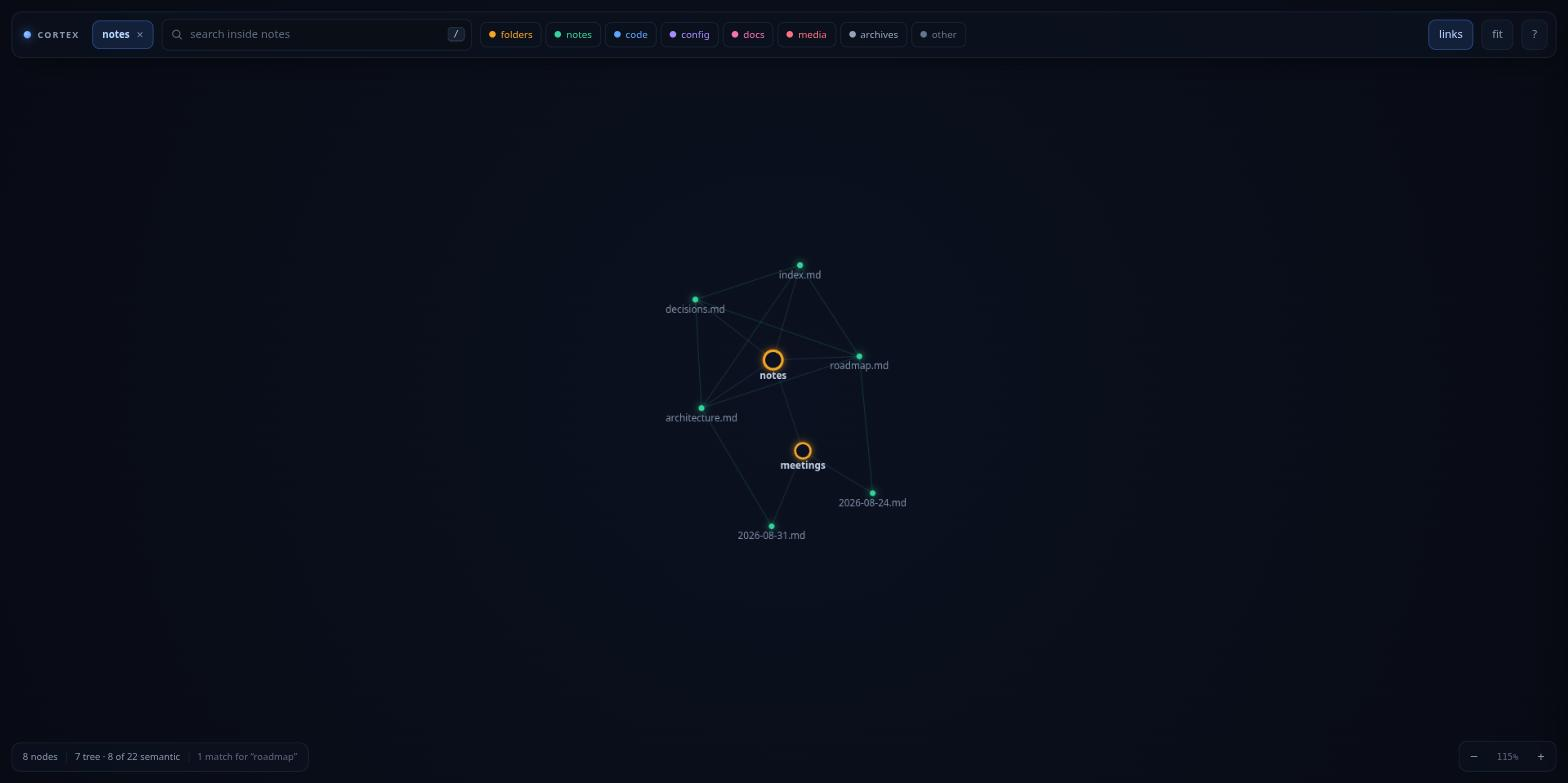
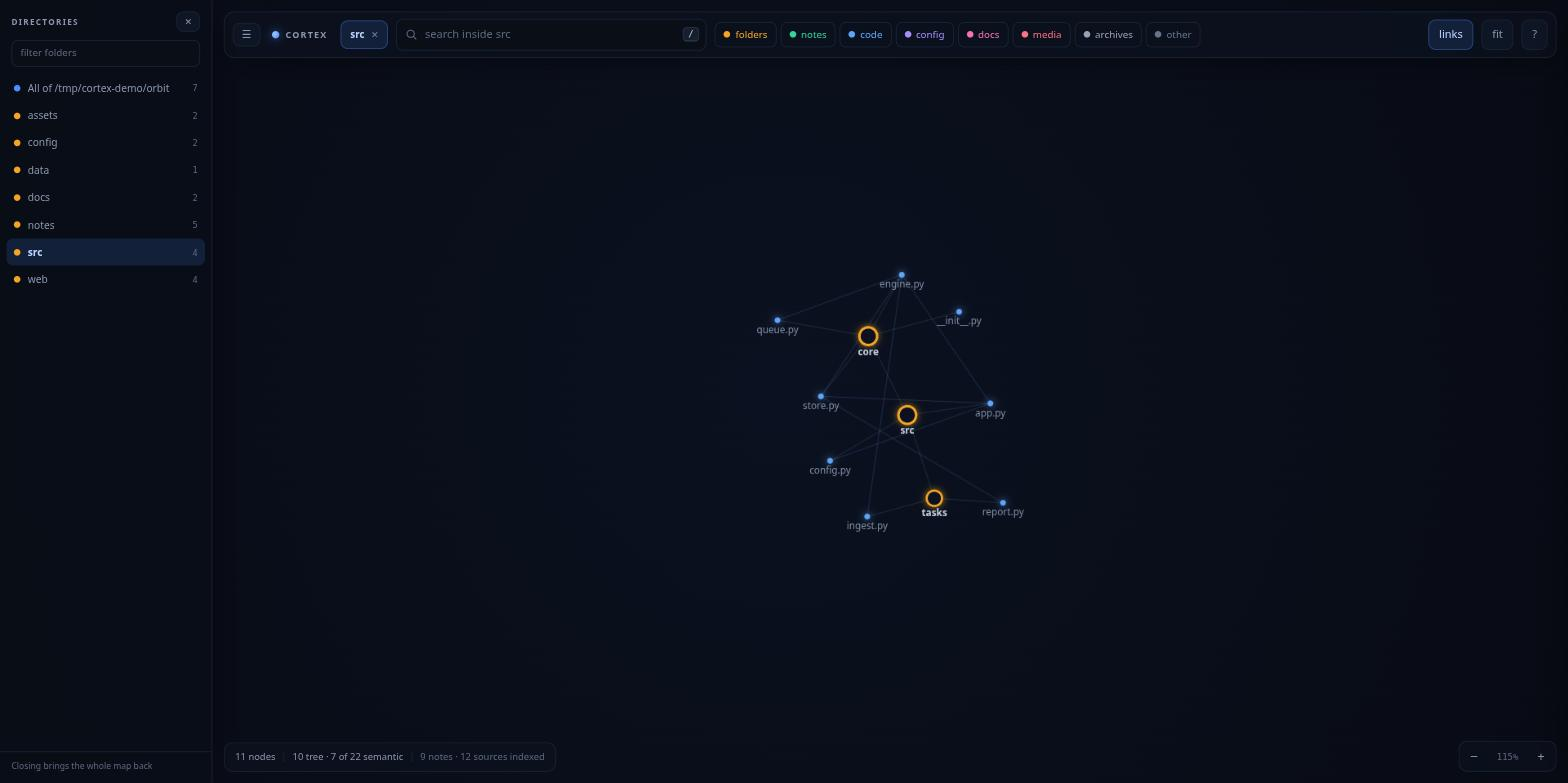
Add a directory sidebar for switching between folders
Narrowing the graph existed but you had to find it: select the right node,
then know about the "only this" button. There was no way to see what you could
switch to.

The sidebar lists every folder in the root. Click one and the graph is rebuilt
around it; click another to jump straight there without going back out first.
A filter box handles roots with many folders, and the current one is marked.

Closing the sidebar restores the whole map. That is deliberate: the sidebar is
the thing you opened, so closing it is the obvious way out, and it means a
narrowed graph can never become a state you are stuck in. Reaching the same
place by pressing `o` on a node still uses the pill or `b` to get back.

The top bar and the stats line step aside for it, and fit() and centerOn() take
the sidebar width into account so the graph is framed in the space actually
left to it rather than centred underneath the sidebar.

diff --git a/cortex/ui/app.js b/cortex/ui/app.js
@@ -35,6 +35,10 @@ let needsFit = false;
    viewRoot is what the graph is currently showing, which the user can narrow to
    any folder inside it without restarting. */
 let viewRoot = ROOT;
+let sidebarOpen = false;
+let rootDirs = null;              // cached folder list for the sidebar
+const SIDEBAR_W = 260;
+const sidebarInset = () => (sidebarOpen ? SIDEBAR_W : 0);
 
 /* The layout cools down and then freezes. Without this the graph jitters
    forever, which reads as flicker: labels keep crossing the collision
@@ -225,6 +229,7 @@ async function setScope(rawRoot) {
 
   applySemantic();
   updateScopeUI();
+  if (sidebarOpen && rootDirs) renderSidebar();
   needsFit = true;
   reheat(1);
 }
@@ -256,6 +261,82 @@ function updateScopeUI() {
   } else {
     qbox.placeholder = `search everything under ${CFG.title || "~"}`;
   }
+}
+
+/* ---------------------------------------------------------------- sidebar
+   A list of the folders directly under the launch root, used as a project
+   switcher: pick one and the graph is rebuilt around it. Closing the sidebar
+   puts the whole map back, so it is never a mode you can get stuck in. */
+
+async function toggleSidebar(on) {
+  const next = on === undefined ? !sidebarOpen : !!on;
+  if (next === sidebarOpen) return;
+  sidebarOpen = next;
+  $("sidebar").hidden = !sidebarOpen;
+  document.body.classList.toggle("sidebar-open", sidebarOpen);
+
+  if (sidebarOpen) {
+    await fillSidebar();
+    $("sb-filter").focus();
+  } else {
+    await showFullMap();          // closing means "show me everything again"
+  }
+  needsFit = true;
+  reheat(0.6);
+}
+
+async function fillSidebar() {
+  const list = $("sb-list");
+  if (!rootDirs) {
+    list.innerHTML = '<div class="sb-empty">reading…</div>';
+    try {
+      const kids = await api("/api/children", { path: ROOT });
+      rootDirs = kids.filter((k) => k.dir);
+    } catch (err) {
+      list.innerHTML = '<div class="sb-empty">could not read the root</div>';
+      return;
+    }
+  }
+  renderSidebar();
+}
+
+function renderSidebar() {
+  const list = $("sb-list");
+  const term = $("sb-filter").value.trim().toLowerCase();
+  const shown = rootDirs.filter((d) => !term || d.name.toLowerCase().includes(term));
+  list.textContent = "";
+
+  const row = (label, count, active, onClick, extraClass) => {
+    const b = document.createElement("button");
+    b.className = "sb-row" + (active ? " on" : "") + (extraClass ? " " + extraClass : "");
+    b.innerHTML = '<span class="bullet"></span>'
+      + `<span class="nm"></span><span class="ct">${count}</span>`;
+    b.querySelector(".nm").textContent = label;   // never trust a filename as html
+    b.addEventListener("click", onClick);
+    list.appendChild(b);
+    return b;
+  };
+
+  if (!term) {
+    row(`All of ${CFG.title || "~"}`, rootDirs.length, viewRoot === ROOT,
+        () => showFullMap(), "all");
+  }
+  if (!shown.length) {
+    const d = document.createElement("div");
+    d.className = "sb-empty";
+    d.textContent = term ? `nothing matching “${term}”` : "no folders here";
+    list.appendChild(d);
+    return;
+  }
+  for (const dir of shown) {
+    row(dir.name, dir.kids ?? "", viewRoot === dir.id, () => pickFromSidebar(dir));
+  }
+}
+
+async function pickFromSidebar(dir) {
+  if (viewRoot === dir.id) return;
+  await setScope(dir);
+  renderSidebar();
 }
 
 /* Grow the graph along a real path until that node exists, then select it. */
@@ -507,20 +588,22 @@ function fit(pad = 90) {
     minY = Math.min(minY, n.y - n.r); maxY = Math.max(maxY, n.y + n.r);
   }
   const panelW = (panel.classList.contains("open") && !maximized) ? 520 : 0;
-  const availW = Math.max(200, W - panelW - pad * 2);
+  const left = sidebarInset();
+  const availW = Math.max(200, W - panelW - left - pad * 2);
   const availH = Math.max(200, H - pad * 2 - 70);
   const s = Math.max(0.06, Math.min(1.15,
     Math.min(availW / Math.max(1, maxX - minX), availH / Math.max(1, maxY - minY))));
   cam.s = s;
-  cam.x = pad + availW / 2 - ((minX + maxX) / 2) * s;
+  cam.x = left + pad + availW / 2 - ((minX + maxX) / 2) * s;
   cam.y = pad + 40 + availH / 2 - ((minY + maxY) / 2) * s;
   showZoom();
 }
 
 function centerOn(n) {
   const panelW = (panel.classList.contains("open") && !maximized) ? 520 : 0;
+  const left = sidebarInset();
   cam.s = Math.max(cam.s, 1.1);
-  cam.x = (W - panelW) / 2 - n.x * cam.s;
+  cam.x = left + (W - left - panelW) / 2 - n.x * cam.s;
   cam.y = H / 2 - n.y * cam.s;
   showZoom();
 }
@@ -988,7 +1071,7 @@ function updateStats() {
 
 // ----------------------------------------------------------------- keyboard
 window.addEventListener("keydown", (e) => {
-  if (e.target === qbox) return;
+  if (e.target === qbox || e.target === $("sb-filter")) return;
   if (e.metaKey || e.ctrlKey || e.altKey) return;
   switch (e.key) {
     case "/":
@@ -1012,6 +1095,8 @@ window.addEventListener("keydown", (e) => {
       if (sel && sel.dir) isolate(sel.id); break;
     case "b":
       showFullMap(); break;
+    case "s":
+      toggleSidebar(); break;
     case "l":
       $("btn-links").click(); break;
     case "?":
@@ -1030,6 +1115,15 @@ $("p-path").addEventListener("click", () => {
                                              () => toast("copy blocked", true));
 });
 $("scope").addEventListener("click", () => showFullMap());
+$("sb-toggle").addEventListener("click", () => toggleSidebar());
+$("sb-close").addEventListener("click", () => toggleSidebar(false));
+$("sb-filter").addEventListener("input", () => renderSidebar());
+$("sb-filter").addEventListener("keydown", (e) => {
+  if (e.key === "Escape") {
+    if ($("sb-filter").value) { $("sb-filter").value = ""; renderSidebar(); }
+    else toggleSidebar(false);
+  }
+});
 $("btn-fit").addEventListener("click", () => fit());
 $("btn-help").addEventListener("click", () => $("help").classList.toggle("open"));
 $("help-close").addEventListener("click", () => $("help").classList.remove("open"));

diff --git a/cortex/ui/style.css b/cortex/ui/style.css
@@ -93,6 +93,50 @@ button.primary{background:linear-gradient(180deg,#3d82ff,#2f6ee0);border:1px sol
   box-shadow:0 6px 18px -8px #4c8dffcc;transition:.14s}
 button.primary:hover{filter:brightness(1.12)}
 
+/* --------------------------------------------------------------- sidebar */
+#sidebar{position:fixed;top:0;left:0;bottom:0;width:260px;z-index:15;
+  display:flex;flex-direction:column;background:rgba(9,13,22,.94);
+  border-right:1px solid var(--line);backdrop-filter:blur(18px) saturate(140%);
+  box-shadow:18px 0 50px -34px #000}
+#sidebar[hidden]{display:none}
+
+.sb-head{display:flex;align-items:center;justify-content:space-between;
+  padding:14px 14px 10px;flex:none}
+.sb-title{font-size:10px;letter-spacing:.16em;text-transform:uppercase;
+  color:var(--fg-dim);font-weight:700}
+
+#sb-filter{margin:0 14px 10px;flex:none;background:#0a0e17;color:var(--fg);
+  border:1px solid var(--line);border-radius:8px;padding:6px 10px;outline:none;
+  font-size:12px}
+#sb-filter:focus{border-color:var(--accent);box-shadow:0 0 0 3px #4c8dff22}
+#sb-filter::placeholder{color:var(--fg-faint)}
+
+#sb-list{flex:1;overflow-y:auto;padding:0 8px 8px}
+#sb-list::-webkit-scrollbar{width:9px}
+#sb-list::-webkit-scrollbar-thumb{background:#1c2740;border-radius:6px;
+  border:3px solid transparent;background-clip:content-box}
+
+.sb-row{display:flex;align-items:center;gap:9px;width:100%;text-align:left;
+  background:none;border:none;border-radius:8px;padding:7px 9px;cursor:pointer;
+  color:var(--fg-dim);font-size:12.5px;transition:.12s}
+.sb-row:hover{background:#141d2f;color:var(--fg)}
+.sb-row.on{background:#12203a;color:#bcd6ff;font-weight:600}
+.sb-row .bullet{width:8px;height:8px;border-radius:50%;background:var(--dir);
+  flex:none}
+.sb-row.all .bullet{background:var(--accent)}
+.sb-row .nm{flex:1;overflow:hidden;text-overflow:ellipsis;white-space:nowrap}
+.sb-row .ct{font:10.5px var(--mono);color:var(--fg-faint);flex:none}
+.sb-empty{color:var(--fg-faint);font-size:12px;padding:12px 9px}
+
+.sb-foot{flex:none;padding:10px 14px 12px;border-top:1px solid var(--line);
+  color:var(--fg-faint);font-size:10.5px;line-height:1.5}
+
+button.ghost.icon{padding:7px 10px;font-size:13px;line-height:1;flex:none}
+
+/* the top bar steps aside for the sidebar */
+body.sidebar-open #bar{left:274px}
+body.sidebar-open #stats{left:274px}
+
 /* --------------------------------------------------------------- corners */
 #stats{position:fixed;left:14px;bottom:14px;z-index:10;display:flex;align-items:center;
   gap:10px;padding:8px 13px;font-size:11.5px;color:var(--fg-dim)}

diff --git a/cortex/ui/index.html b/cortex/ui/index.html
@@ -10,8 +10,22 @@
 
 <canvas id="stage"></canvas>
 
+<!-- left sidebar: every folder in the root, as a project switcher -->
+<aside id="sidebar" hidden>
+  <div class="sb-head">
+    <span class="sb-title">Directories</span>
+    <button id="sb-close" class="ghost sm"
+            title="Close — back to the whole map (s)">&#10005;</button>
+  </div>
+  <input id="sb-filter" type="text" spellcheck="false" autocomplete="off"
+         placeholder="filter folders">
+  <div id="sb-list"></div>
+  <div class="sb-foot">Closing brings the whole map back</div>
+</aside>
+
 <!-- top command bar -->
 <header id="bar">
+  <button id="sb-toggle" class="ghost icon" title="Directories (s)">&#9776;</button>
   <div class="brand"><span class="dot"></span>cortex</div>
   <button id="scope" class="scope" hidden>
     <span id="scope-name"></span><span class="x">&#10005;</span>
@@ -83,6 +97,7 @@
       <dt><kbd>f</kbd></dt><dd>focus mode — hide everything not connected</dd>
       <dt><kbd>o</kbd></dt><dd>only this folder — drop everything else from the graph</dd>
       <dt><kbd>b</kbd></dt><dd>back to the whole map</dd>
+      <dt><kbd>s</kbd></dt><dd>open / close the directory sidebar</dd>
       <dt><kbd>m</kbd></dt><dd>full screen the reader — for PDFs, images, long notes</dd>
       <dt><kbd>esc</kbd></dt><dd>leave full screen, or close the reader</dd>
     </dl>

diff --git a/README.md b/README.md
@@ -224,21 +224,32 @@ cortex ~/big-repo --max-nodes 300  # stop after 300 nodes
 Default is 3 levels for a folder you name, and **0 for your home directory** —
 a home directory is far too big to open eagerly.
 
-### Narrowing down without restarting
+### The directory sidebar
 
-You do not have to decide up front. Select any folder in the graph and press
-<kbd>o</kbd>, or click **only this**, and the graph is rebuilt around just that
-folder. Everything else disappears — it is not dimmed or filtered, it is gone:
+You do not have to decide up front. Click **☰** in the top left, or press
+<kbd>s</kbd>, and a sidebar lists every folder in the root. Click one and the
+graph is rebuilt around just that folder — everything else is not dimmed or
+filtered, it is gone:
 
-![Narrowed to one folder](docs/scope.jpg)
+![The directory sidebar](docs/scope.jpg)
 
-Search narrows with it, and says so when a match exists but is out of view
-(`0 matches for "roadmap" (1 outside this folder)`), so you are never quietly
-missing results.
+Click another folder to jump straight to it. **Close the sidebar and the whole
+map comes back**, exactly as it looked when you launched — closing is always the
+way out, so it is not a mode you can get stuck in.
 
-A pill appears in the top bar with the folder's name. Click it, or press
-<kbd>b</kbd>, to go back to the whole map. Following a `[[wikilink]]` that
-points outside the folder widens back out on its own.
+There is a filter box for when the root has a lot of folders, and the row you
+are currently in is highlighted.
+
+### Narrowing from the graph itself
+
+Same idea without the sidebar: select any folder node and press <kbd>o</kbd>, or
+click **only this**. A pill appears in the top bar with the folder's name — click
+it, or press <kbd>b</kbd>, for the whole map again.
+
+Search narrows along with the view, and says so when a match exists but is out of
+sight (`0 matches for "roadmap" (1 outside this folder)`), so a narrowed graph
+never quietly hides results. Following a `[[wikilink]]` that points outside the
+folder widens back out on its own.
 
 This is a view, not a permission: the folder you launched on is still the
 security boundary, and narrowing never lets you reach outside it.
@@ -318,6 +329,7 @@ cortex [folder] [options]
 | <kbd>m</kbd> | full screen the reader |
 | <kbd>e</kbd> | expand / collapse the selected folder |
 | <kbd>f</kbd> | focus mode — hide everything not linked |
+| <kbd>s</kbd> | open / close the directory sidebar |
 | <kbd>o</kbd> | only this folder — rebuild the graph around the selection |
 | <kbd>b</kbd> | back to the whole map |
 | <kbd>l</kbd> | show / hide semantic links |
@@ -449,8 +461,9 @@ end off-screen. Open a single project (`cortex ~/myproject`) and they appear —
 or select that project's folder in the graph and press <kbd>o</kbd>.
 
 **I opened my home directory but only want one project now.**
-Select the folder and press <kbd>o</kbd>. No need to quit and relaunch. Press
-<kbd>b</kbd> to come back.
+Press <kbd>s</kbd> for the sidebar and click the project, or select its folder in
+the graph and press <kbd>o</kbd>. No need to quit and relaunch. Closing the
+sidebar — or <kbd>b</kbd> — brings the full map back.
 
 **Can I map a folder outside my home directory?**
 Yes — any folder you can read. That folder becomes the boundary, and nothing
